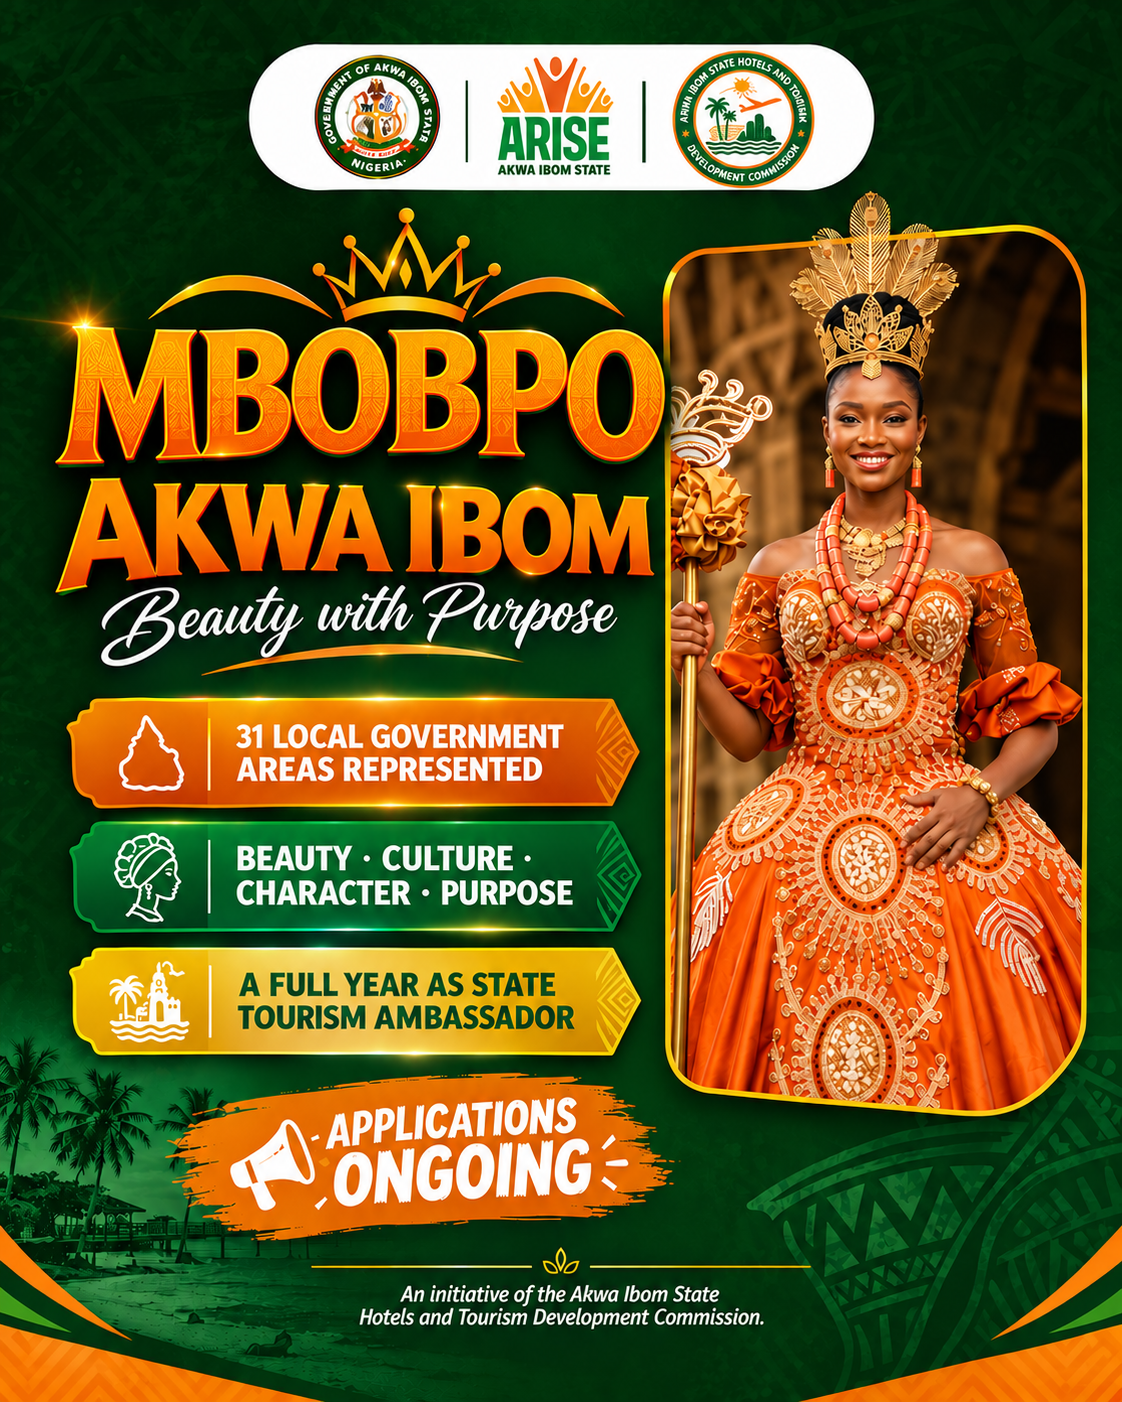
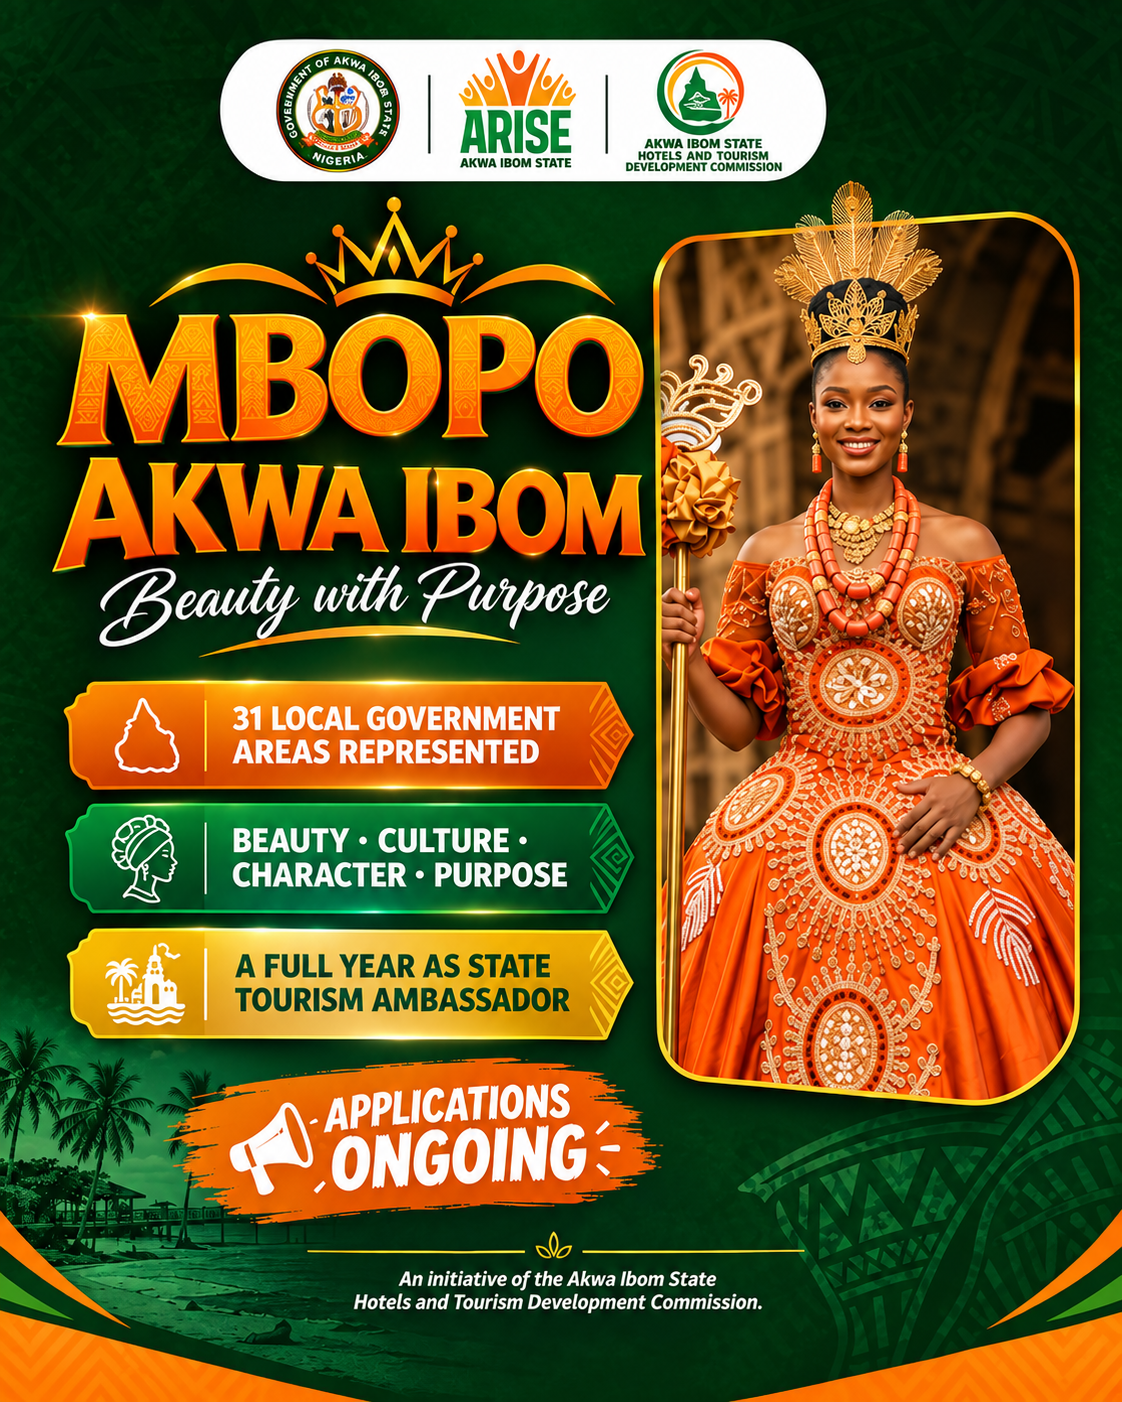
fix: correct spelling of "Mbopo" in various components

diff --git a/src/features/home/components/CurrentEvents.tsx b/src/features/home/components/CurrentEvents.tsx
@@ -51,11 +51,11 @@ const currentEvents: CurrentEvent[] = [
   },
   {
     id: "mbopo-akwa-ibom",
-    title: "Mbobpo Akwa Ibom Pageant",
+    title: "Mbopo Akwa Ibom Pageant",
     description:
-      "Celebrate culture and heritage — register to represent Akwa Ibom at the Mbobpo Akwa Ibom pageant.",
+      "Celebrate culture and heritage — register to represent Akwa Ibom at the Mbopo Akwa Ibom pageant.",
     image: mbobpoImg,
-    ctaLabel: "Register for Mbobpo",
+    ctaLabel: "Register for Mbopo",
     ctaLink: MBOPO_AKWA_IBOM_URL,
   },
   // {

diff --git a/src/shared/components/Navbar.tsx b/src/shared/components/Navbar.tsx
@@ -104,7 +104,7 @@ const Navbar = () => {
               target="_blank"
               rel="noopener noreferrer"
             >
-              Mbobpo Akwa Ibom
+              Mbopo Akwa Ibom
             </NavCtaButtonOutline>
           </DesktopLinks>
 
@@ -124,7 +124,7 @@ const Navbar = () => {
               target="_blank"
               rel="noopener noreferrer"
             >
-              Mbobpo
+              Mbopo
             </CompactCtaButtonOutline>
           </CompactCtaGroup>
 

diff --git a/src/features/home/components/Hero.tsx b/src/features/home/components/Hero.tsx
@@ -94,7 +94,7 @@ const heroSlides: HeroSlide[] = [
   },
   {
     image: mbopoFlier,
-    title: "Mbobpo Akwa Ibom: Beauty with Purpose",
+    title: "Mbopo Akwa Ibom: Beauty with Purpose",
     subtitle:
       "Applications are open for young women across all 31 local government areas to become Akwa Ibom's next State Tourism Ambassador.",
     ctaLabel: "Apply Now",
